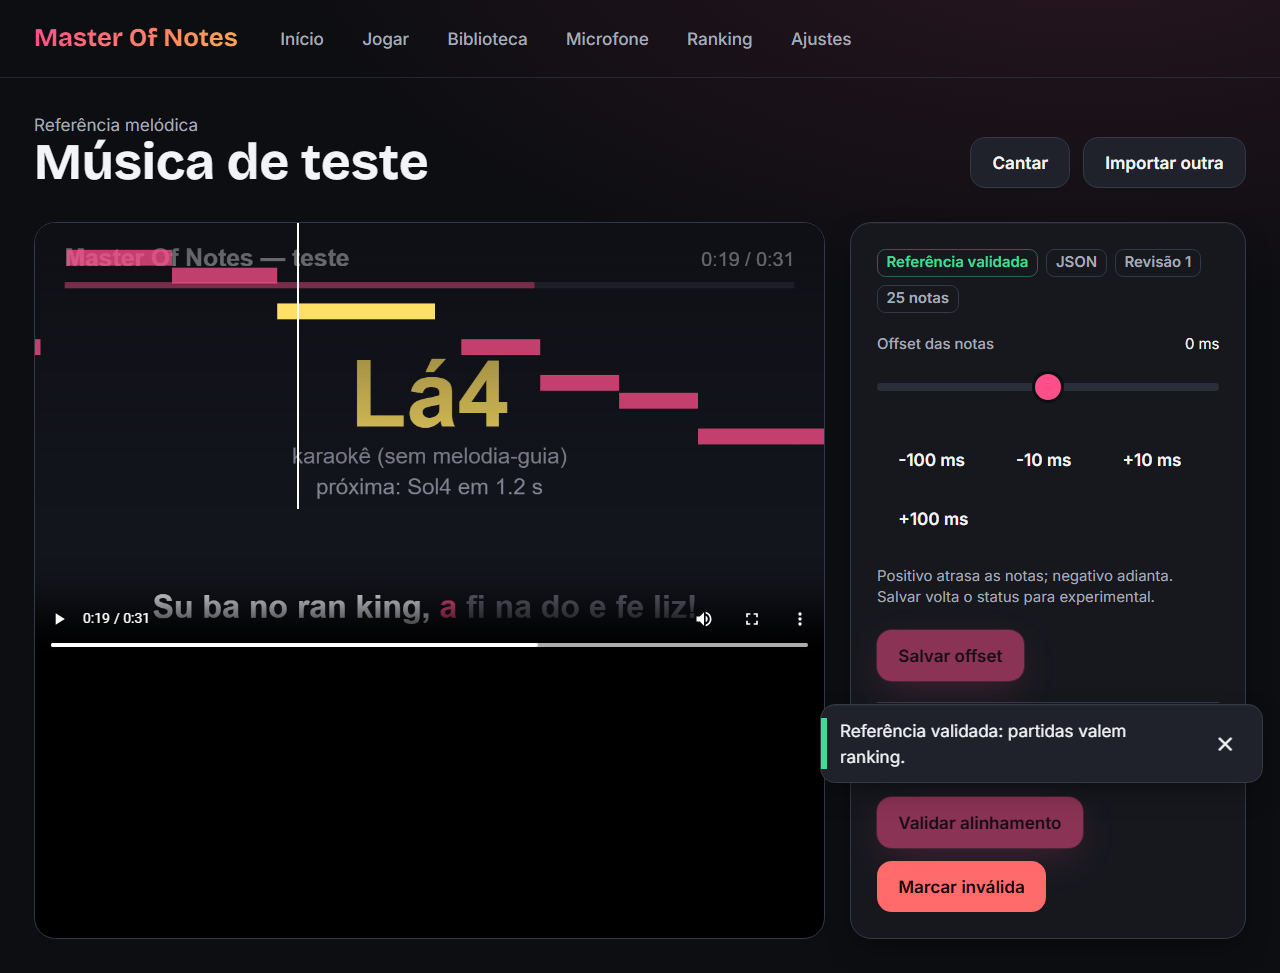
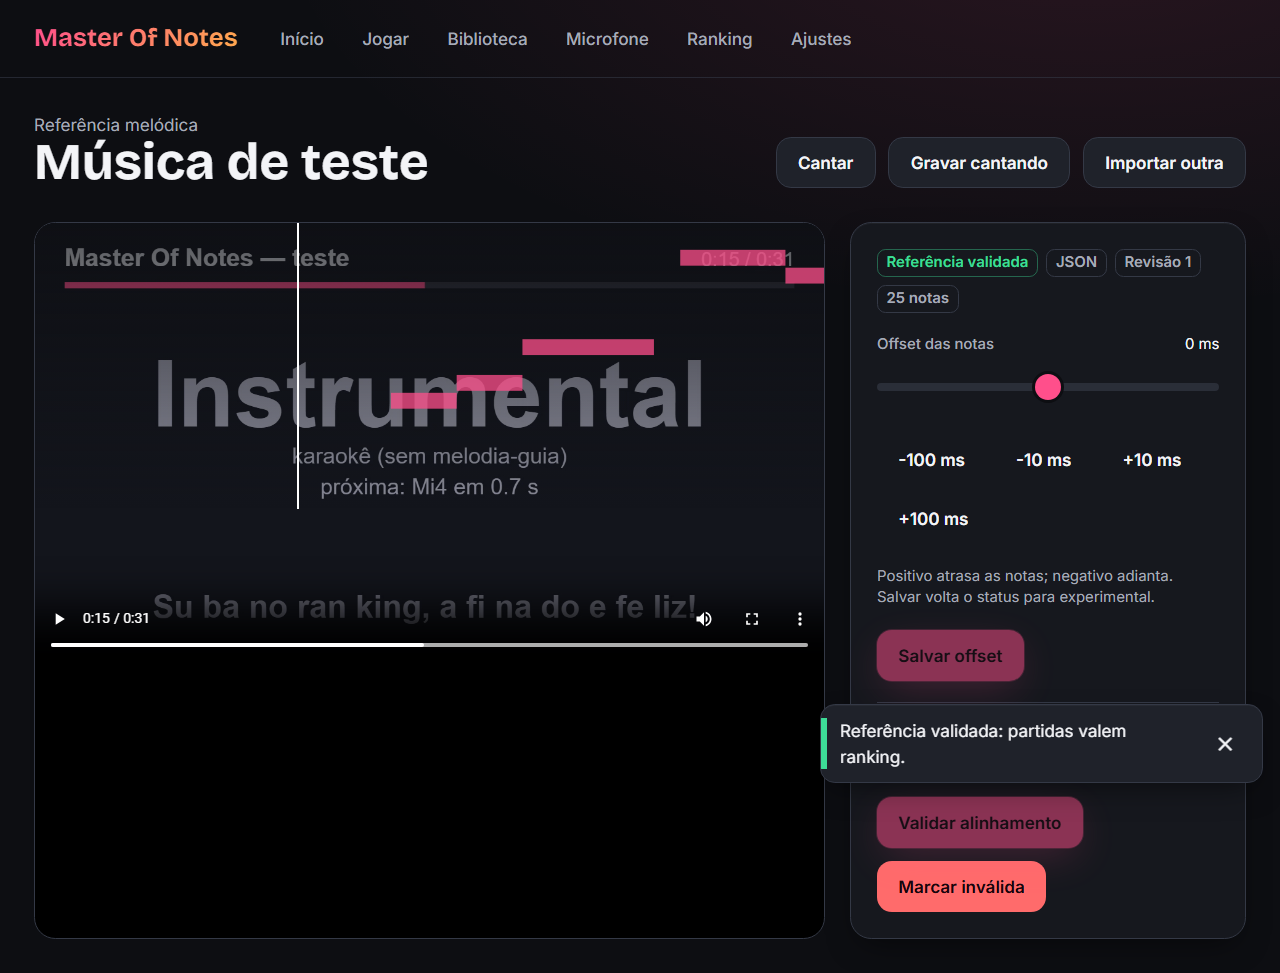
docs(user): sung reference and no-release captures; reference screen media regenerated [T-011-06]

diff --git a/apps/desktop/e2e/docs/capture.docs.ts b/apps/desktop/e2e/docs/capture.docs.ts
@@ -414,6 +414,31 @@ test("05 referência melódica — alinhar e validar", async ({ page }) => {
   await shot(page, "referencia-validar", { fullPage: true });
 });
 
+test("05 referência melódica — gravar cantando", async ({ page }) => {
+  const sung = reference({ id: 2, source: "manual", status: "experimental" });
+  await open(
+    page,
+    { get_reference: { ok: null }, finish_performance: { ok: { ...resultNoReference, exploratory: null, reason: null, capturedReference: sung } } },
+    { delays: { finish_performance: 1200 } },
+  );
+  await nav(page, "Biblioteca");
+  await page.getByRole("button", { name: "Referência de Música de teste" }).click();
+  await page.getByRole("button", { name: "Gravar cantando" }).click();
+  await expect(page.getByRole("button", { name: "Começar" })).toBeVisible();
+  await shot(page, "referencia-cantar");
+  await gif(page, "referencia-cantar", async () => {
+    await pause(page, 800);
+    await page.getByRole("button", { name: "Começar" }).click();
+    await expect(page.getByText("Gravando notas")).toBeVisible({ timeout: 6000 });
+    await feedTicks(page);
+    await pause(page, 4500);
+    await page.evaluate(() => window.__docsStop?.());
+    await page.getByRole("button", { name: "Parar" }).click();
+    await expect(page.getByText("Cantada", { exact: true })).toBeVisible({ timeout: 6000 });
+    await pause(page, 1500);
+  });
+});
+
 // ---------- 06 cantar ----------
 
 test("06 cantar", async ({ page }) => {
@@ -655,6 +680,15 @@ test("11 atualizações", async ({ page }) => {
   await page.getByRole("button", { name: "Verificar agora" }).click();
   await expect(page.getByText("Você já está na versão mais recente.")).toBeVisible();
   await shot(page.getByText("Você já está na versão mais recente.").locator(".."), "atualizacao-em-dia");
+});
+
+test("11 atualizações — sem versão normal", async ({ page }) => {
+  await open(page, { "plugin:updater|check": { err: { code: "updater", message: "Could not fetch a valid release JSON from the remote" } } });
+  await nav(page, "Ajustes");
+  await page.getByRole("button", { name: "Verificar agora" }).click();
+  const msg = page.getByText("Nenhuma versão nova pelo canal de atualizações automáticas.");
+  await expect(msg).toBeVisible();
+  await shot(msg.locator(".."), "atualizacao-sem-versao");
 });
 
 // ---------- budget ----------

diff --git a/specs/SPEC-011-user-docs.md b/specs/SPEC-011-user-docs.md
@@ -19,7 +19,7 @@ Guia minucioso para quem nunca usou o app, em pt-BR, com **imagens, GIFs e víde
 | T-011-03 | Páginas do guia (R2) com mídia | Agente 5 | done |
 | T-011-04 | Revisão de exatidão contra a UI + revisão do coordenador | Agente 5 / Agente 0 | done |
 | T-011-05 | Conferir a renderização real no GitHub (links, âncoras com acento, imagens/GIFs, vídeo, link do README da raiz) + instalação apontando para a pré-release | Agente 5 | review |
-| T-011-06 | Guia: "Gravar cantando" (T-005-07), página de versões quando o canal automático não tem versão (T-009-02), aviso de variação > 10 ms na latência (T-004-07); texto agora, mídia depois do main | Agente 5 | in_progress |
+| T-011-06 | Guia: "Gravar cantando" (T-005-07), página de versões quando o canal automático não tem versão (T-009-02), aviso de variação > 10 ms na latência (T-004-07); texto agora, mídia depois do main | Agente 5 | review |
 
 ## STATUS
 Criada em 2026-11-19 a pedido do proprietário.
@@ -31,3 +31,4 @@ Criada em 2026-11-19 a pedido do proprietário.
 - T-011-05 `review` (Agente 5, 2026-11-19): render real conferido pelo HTML que o GitHub gera (`gh api …/contents/<arquivo> -H 'Accept: application/vnd.github.html'`) para as 15 páginas: todos os links relativos, todas as âncoras (inclusive com acento, ex.: `#5-latência-atraso`, e a `<a id>` do glossário) batem com os ids `user-content-*` do GitHub; as 48 mídias publicadas existem e cada `<img>` aponta para uma delas; o README da raiz linka `docs/user/README.md` ✅. O vídeo WebM: a página do arquivo no GitHub só oferece "View raw" (sem player) e o raw sai como `audio/webm`; o texto do link passou a dizer isso.
[1 lines of base64/hex data omitted]
 - T-011-06 `in_progress` (Agente 5, 2026-11-19): texto escrito a partir do diff de agent-3/work @ b3878b6 (ainda fora do main). 05: tabela "de onde tirar" (arquivo MIDI/JSON = mais preciso; Cantada = sem arquivo), seção "Gravar cantando" (quem grava precisa conhecer a melodia e cantar afinado, fones, só as notas são guardadas, passo a passo, menos de 3 notas, revisar e validar). 04: aviso de variação > 10 ms. 11 e 13: mensagem "Nenhuma versão nova pelo canal de atualizações automáticas" com "Abrir página de versões", e a nota da 0.1.1 (erro antigo). README e glossário (Cantada). Verificador de links ✅. ⏳ Mídia (`referencia-cantar.png/.gif`, `atualizacao-sem-versao.png`, `referencia-vazia.png` com o texto novo) depois que a UI do Agente 3 e o backend da T-005-07 estiverem no main. ❓ Detalhes do `segment_notes` (Agente 2) não descritos no guia de propósito.
+- T-011-06 `review` (Agente 5, 2026-11-19), mídia sobre main b87d18d: geradas só as capturas novas e as que mudaram com a UI. Novas: `referencia-cantar.png`, `referencia-cantar.gif` (0,5 MB) e `atualizacao-sem-versao.png`. Regeneradas porque o cabeçalho da tela Referência ganhou "Gravar cantando": `referencia-vazia` (texto novo), `referencia-trilha`, `referencia-alinhar.gif`, `referencia-validar`. A captura cantada usa o MockSpec do script (`finish_performance` com `capturedReference`), sem depender do fake-backend (T-005-09). `playwright … -g "05 referência|sem versão normal"` ✅ 4/4; typecheck ✅; verificador de links ✅. Mídia total: 52 arquivos, 10,6 MB.

diff --git a/docs/user/05-referencia-melodica.md b/docs/user/05-referencia-melodica.md
@@ -31,7 +31,7 @@ Use arquivos que você tenha o direito de usar. O app não vem com referências 
 2. Clique em **Importar referência**.
 3. Escolha o arquivo `.mid`, `.midi` ou `.json`.
 
-![Tela de referência sem referência: "Sem a linha melódica não há pontuação competitiva. Importe um arquivo MIDI (escolha a trilha da voz) ou um JSON no formato mon-melody v1."](media/referencia-vazia.png)
+![Tela de referência sem referência, com os botões Cantar, Gravar cantando e Importar referência: "Sem a linha melódica não há pontuação competitiva. Importe um arquivo MIDI (escolha a trilha da voz) ou um JSON no formato mon-melody v1, ou grave cantando a melodia junto com o vídeo."](media/referencia-vazia.png)
 
 ### Escolher a trilha da voz (MIDI)
 
@@ -44,8 +44,6 @@ Se o MIDI tiver mais de uma trilha com notas, o app pergunta **Qual trilha é a 
 Ao importar, a referência entra como **Referência experimental**: o app ainda não sabe se ela está alinhada com o seu vídeo.
 
 ## Gravar cantando
-
-<!-- A capturar (T-011-06, depois da UI e do backend da T-005-07 no main): media/referencia-cantar.png (painel Gravar cantando) e media/referencia-cantar.gif (contagem, Gravando notas, Parar, selo Cantada). -->
 
 Sem o arquivo da melodia, dá para criar a referência **cantando**. A pessoa que grava canta a melodia junto com o vídeo, e o app anota cada nota: qual é, quando começa e quanto dura.
 
@@ -62,9 +60,16 @@ Sem o arquivo da melodia, dá para criar a referência **cantando**. A pessoa qu
 
 1. Na tela da referência, clique em **Gravar cantando**.
 2. Leia o painel **Gravar cantando** e clique em **Começar**.
+
+   ![Painel "Gravar cantando" ao lado do vídeo: "Cante a melodia junto com o vídeo; o app grava só as notas, nunca a sua voz. Use fones de ouvido." e os botões Começar e Cancelar.](media/referencia-cantar.png)
+
 3. Depois da contagem **3, 2, 1**, o vídeo toca do início. Enquanto o selo **Gravando notas** estiver aceso, cante a melodia. O medidor mostra que o microfone está ouvindo você.
 4. Ao fim da música, a gravação para sozinha. Para terminar antes, clique em **Parar**.
 5. O app mostra *"Salvando as notas…"* e volta para a tela da referência, com as notas desenhadas sobre o vídeo e os selos **Cantada** e **Referência experimental**.
+
+![Animação: Começar, o vídeo toca com o selo Gravando notas e o medidor do microfone com Voz detectada; Parar; a tela volta com as notas sobre o vídeo, os selos Referência experimental e Cantada e o aviso "Notas gravadas. Confira o alinhamento e valide."](media/referencia-cantar.gif)
+
+*Notas e nível do microfone de exemplo.*
 
 **Cancelar** descarta a gravação e não muda nada.
 

diff --git a/apps/desktop/e2e/docs/PLANO-DE-MIDIA.md b/apps/desktop/e2e/docs/PLANO-DE-MIDIA.md
@@ -56,6 +56,8 @@ Tipos: **P** = screenshot PNG · **G** = GIF (≤ 15 s) · **V** = vídeo WebM.
 | referencia-trilha | P | Diálogo **Qual trilha é a voz?** com 3 trilhas | `list_midi_tracks` com nomes inventados |
 | referencia-alinhar | G | Vídeo de teste tocando com as notas por cima; ajuste com **+100 ms** até alinhar; **Salvar offset** | música de teste + sua referência JSON |
 | referencia-validar | P | Após **Validar alinhamento**: selo **Referência validada** | `set_reference_status` → validated |
+| referencia-cantar | P | Painel **Gravar cantando** (Começar/Cancelar) | `get_reference: null` |
+| referencia-cantar | G | Começar → 3-2-1 → **Gravando notas** com medidor → **Parar** → selos **Cantada** e **Referência experimental** | `finish_performance` com `capturedReference` (MockSpec do script); ticks injetados |
 
 ### 06-cantar.md
 | ID | Tipo | Conteúdo | Estado do mock |
@@ -109,18 +111,19 @@ Tipos: **P** = screenshot PNG · **G** = GIF (≤ 15 s) · **V** = vídeo WebM.
 | atualizacao-disponivel | P | "Versão X disponível" + notas + **Baixar atualização** | `plugin:updater|check` com versão fictícia (MockSpec do script) |
 | atualizacao-instalar | P | Diálogo **Instalar agora?** | download simulado (só no script de captura) |
 | atualizacao-em-dia | P (recorte) | "Você já está na versão mais recente." | `check` → null |
+| atualizacao-sem-versao | P (recorte) | "Nenhuma versão nova pelo canal de atualizações automáticas." + **Abrir página de versões** | `check` rejeita com "valid release JSON" (404 do endpoint) |
 
 
 ### 12-privacidade.md, 13-problemas-e-faq.md, 14-glossario.md
 Só texto; reusam recortes das páginas 03, 04 e 06 (ex.: `detalhes-incompativel`, `microfone-calibrar-problemas`).
 
-## Totais (gerados em 2026-11-19, main 7caa1c9)
+## Totais (2026-11-19, main b87d18d; página 05 e atualizacao-sem-versao regeneradas na T-011-06)
 | Tipo | Qtd | Tamanho |
 |---|---|---|
-| PNG | 38 | 4,1 MB |
-| GIF | 9 | 2,8 MB (maior: 0,65 MB) |
+| PNG | 41 (inclui a captura real `instalador-concluido`) | 4,3 MB |
+| GIF | 10 | 3,2 MB (maior: 0,65 MB) |
 | Vídeo | 1 | 3,1 MB |
-| **Total** | 48 | **10,0 MB** (limite 40 MB) |
+| **Total** | 52 | **10,6 MB** (limite 40 MB) |
 
 ## GIF sem ffmpeg (aprovado pelo coordenador)
 1. O script tira screenshots em sequência (≈ 8 fps) com `page.screenshot()` durante o fluxo.

diff --git a/docs/user/11-atualizacoes.md b/docs/user/11-atualizacoes.md
@@ -56,7 +56,7 @@ O canal de atualizações automáticas só oferece **versões normais**. As vers
 - **Abrir página de versões**: abre a página de versões no navegador, para você ver se há uma versão de testes;
 - **Verificar de novo**.
 
-<!-- A capturar (T-011-06, depois da UI do Agente 3 no main): media/atualizacao-sem-versao.png. -->
+![Mensagem "Nenhuma versão nova pelo canal de atualizações automáticas." com "Versões de teste, quando houver, ficam na página de versões do projeto." e os botões Abrir página de versões e Verificar de novo.](media/atualizacao-sem-versao.png)
 
 > **Na versão 0.1.1**, essa situação aparece como erro: *"Não foi possível verificar ou baixar a atualização."*, mesmo com internet. Isso é esperado e o app continua funcionando normalmente. Confira as novidades na [página de versões](https://github.com/Chamfrado/MasterOfNotes/releases).
 
